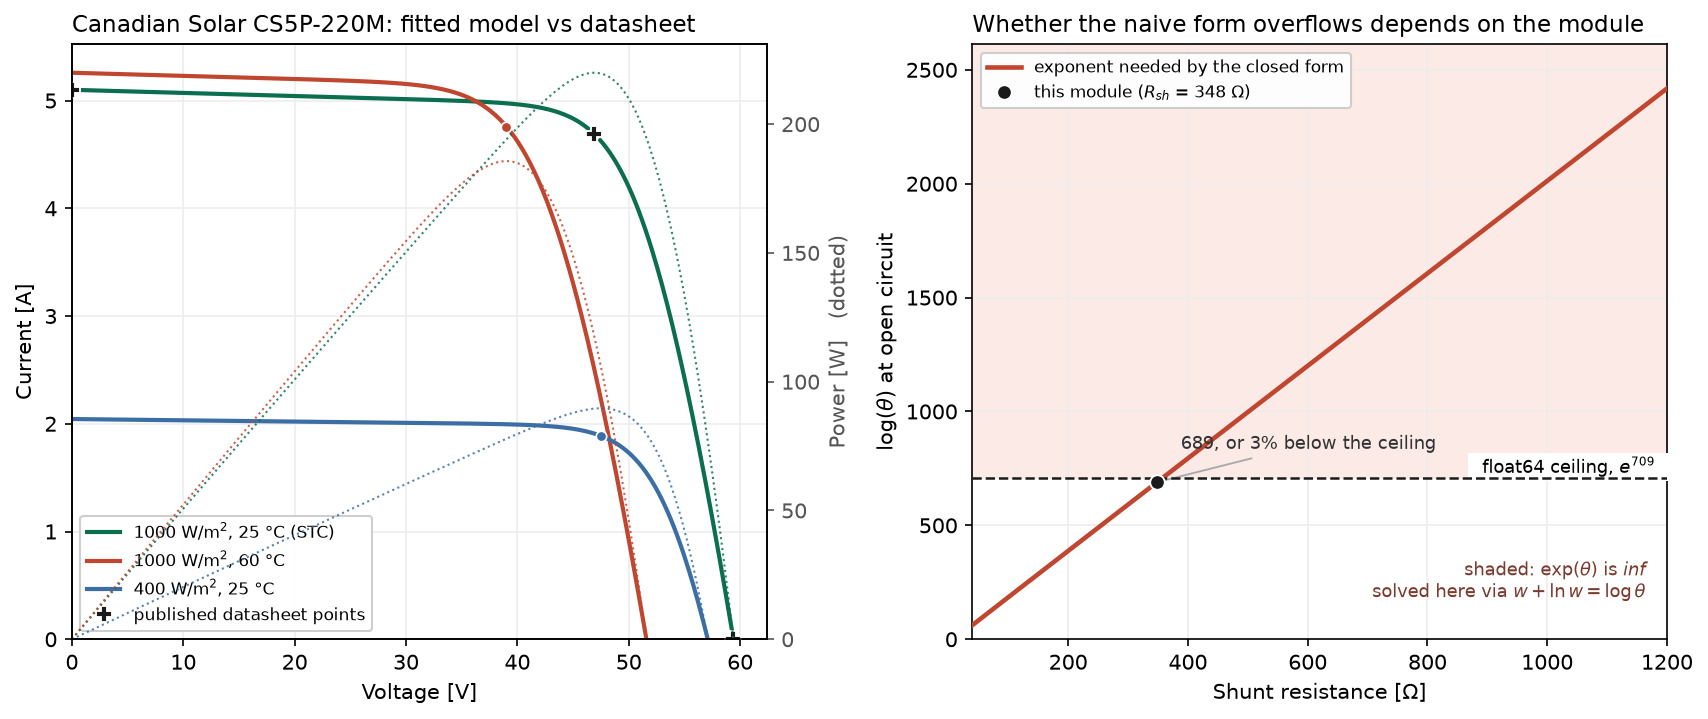
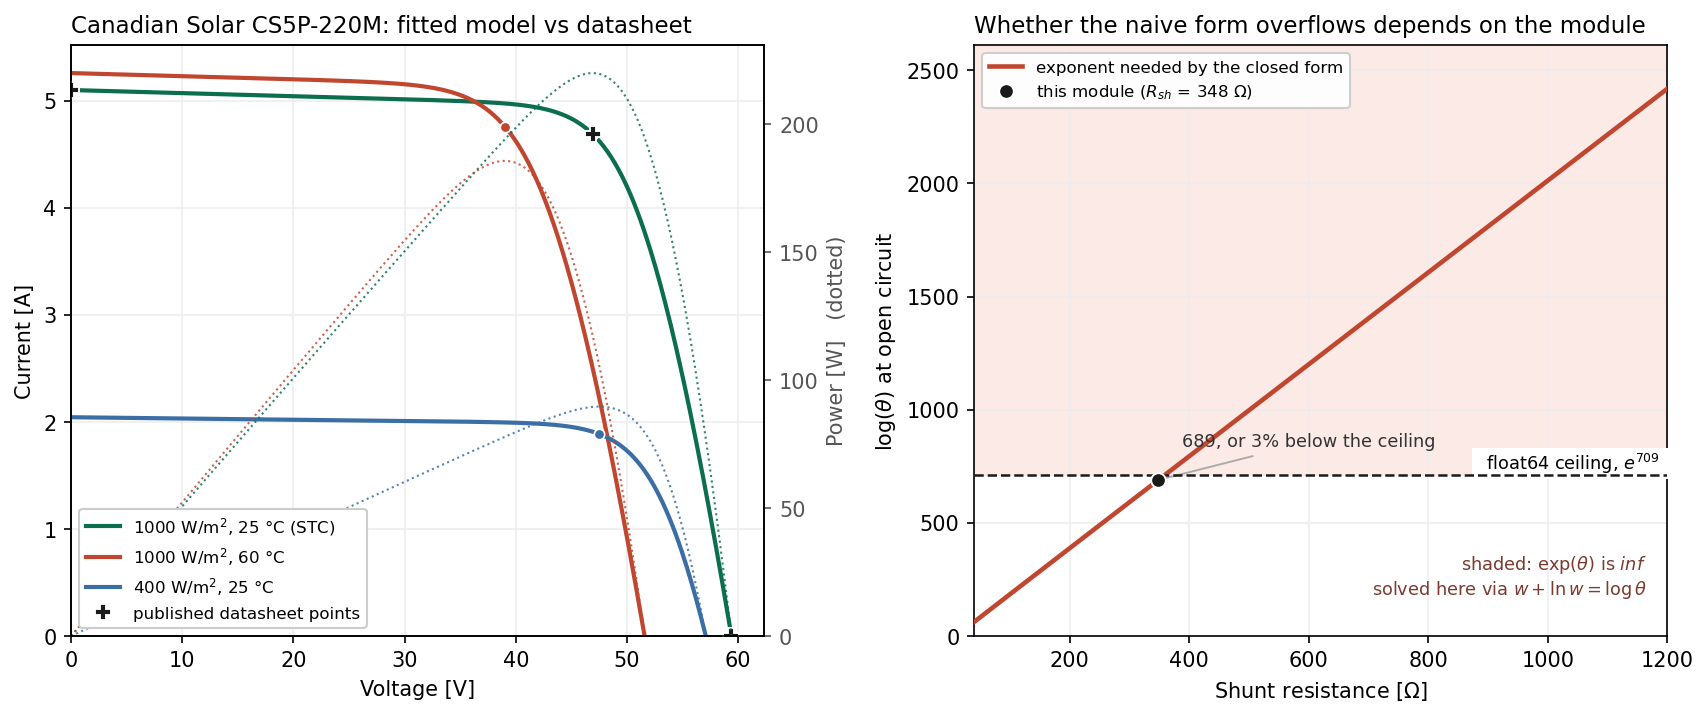
Fix the figure legend, and make the README runnable from nothing
The overview figure drew the dotted power curves across the left panel's
legend, crossing three of the four labels. The legend was attached to the
primary axes and the curves to its twin, and a twinned axes is drawn on top
of the one it was made from whatever the zorder or the frame opacity, so no
amount of framealpha was going to fix it. The legend now sits on the twin.

It had been there since the figure was written and never showed up, because
the figure was only ever inspected at full resolution. At the width it is
actually rendered at, it is the first thing you see.

The quickstart started at `pip install`, which assumes a clone, a directory
and an environment. It is now the whole sequence, and it was run as written
from an empty directory: clone, venv, install, example, 154 tests passing,
97% line and branch coverage.

Coverage is stated as a number with the command that prints it rather than
as a badge, because nothing publishes it; CI keeps the report as a build
artifact. The badges that remain are absolute URLs, so they resolve where
the README is read outside github.com, and the CI badge names main. The two
static badges that only restated the Development section are gone.

CONTRIBUTING still said the tests had caught three defects. The README has
documented four since the portability failure.

diff --git a/src/single_diode/plotting.py b/src/single_diode/plotting.py
@@ -135,7 +135,14 @@ def plot_overview(
     axp.set_ylim(bottom=0)
     ax.grid(color="#EDEDED", linewidth=0.8)
     ax.set_axisbelow(True)
-    ax.legend(loc="lower left", fontsize=8, framealpha=0.95)
+    # The legend is attached to the twin, not to ``ax``. A twinned axes is
+    # drawn on top of the one it was made from, so a legend on ``ax`` sits
+    # underneath the dotted power curves whatever its zorder or framealpha -
+    # which is exactly what it did: the dotted lines crossed the labels. It
+    # only showed up when the figure was inspected at the width it is actually
+    # rendered at, rather than at full resolution.
+    handles, labels = ax.get_legend_handles_labels()
+    axp.legend(handles, labels, loc="lower left", fontsize=8, framealpha=1.0)
     ax.set_title(f"{sheet.name}: fitted model vs datasheet", fontsize=11, loc="left")
 
     # ---------------- right: the overflow ceiling ----------------

diff --git a/README.md b/README.md
@@ -1,10 +1,8 @@
 # single-diode
 
-[![CI](../../actions/workflows/ci.yml/badge.svg)](../../actions/workflows/ci.yml)
-[![Python](https://img.shields.io/badge/python-3.10%20%7C%203.11%20%7C%203.12%20%7C%203.13-blue)](pyproject.toml)
+[![CI](https://github.com/valentinmann/single-diode/actions/workflows/ci.yml/badge.svg?branch=main)](https://github.com/valentinmann/single-diode/actions/workflows/ci.yml?query=branch%3Amain)
+[![Python 3.10 to 3.13](https://img.shields.io/badge/python-3.10%20%7C%203.11%20%7C%203.12%20%7C%203.13-blue)](pyproject.toml)
 [![License: MIT](https://img.shields.io/badge/license-MIT-green)](LICENSE)
-[![Checked with mypy](https://img.shields.io/badge/mypy-checked-2a6db2)](pyproject.toml)
-[![Ruff](https://img.shields.io/endpoint?url=https://raw.githubusercontent.com/astral-sh/ruff/main/assets/badge/v2.json)](https://github.com/astral-sh/ruff)
 
 A solar module datasheet gives you four numbers and two temperature
 coefficients. The single diode equivalent circuit needs five parameters. This
@@ -16,7 +14,12 @@ irradiance and cell temperature.
 ## Run it
 
 ```bash
-pip install -e ".[dev]" && python examples/datasheet_to_iv.py
+git clone https://github.com/valentinmann/single-diode.git
+cd single-diode
+python -m venv .venv
+source .venv/bin/activate        # Windows: .venv\Scripts\activate
+pip install -e ".[dev]"
+python examples/datasheet_to_iv.py
 ```
 
 A few seconds, no data to download. It fits a real published module, checks
@@ -78,9 +81,15 @@ converging for `I0 = 1e-10 A` and failing for `8e-10 A`.
 ## What the tests caught
 
 ```bash
-pytest       # 154 tests, including the docstring examples
-nox          # or: lint, strict type check and tests, exactly what CI runs
+pytest                                  # 154 tests, including the docstring examples
+pytest --cov --cov-report=term-missing  # 97% line and branch coverage
+nox                                     # lint, strict types and tests: exactly what CI runs
 ```
+
+Those two numbers are what those two commands print on a clean clone. There is
+no coverage badge because coverage is not published anywhere: CI keeps the
+report as a build artifact rather than sending it to a third party, and a
+badge nobody can reproduce is worth less than a command anybody can run.
 
 Four things, each of which produced plausible output and none of which a
 smoke test would have found. The first three were caught locally; the fourth
@@ -154,7 +163,7 @@ Everything CI runs is one command locally, through
 ```bash
 nox              # lint, types, tests
 nox -s tests     # tests on every installed interpreter, 3.10 to 3.13
-nox -s coverage  # 97% line and branch coverage at the time of writing
+nox -s coverage  # the coverage report quoted above, through nox
 nox -s build     # build the distributions and validate their metadata
 ```
 

diff --git a/CHANGELOG.md b/CHANGELOG.md
@@ -6,6 +6,23 @@ All notable changes to this project are documented here. The format follows
 
 ## [Unreleased]
 
+### Fixed
+
+- The overview figure drew the dotted power curves across the left panel's
+  legend. The legend was attached to the primary axes and the curves to its
+  twin, and a twinned axes is drawn on top of the one it was made from
+  whatever the zorder or the frame opacity, so the labels were crossed by
+  lines. It was only visible at the width the figure is actually rendered at.
+  The legend now sits on the twin.
+
+### Changed
+
+- The README quickstart is a complete sequence, from `git clone` to the first
+  figure, verified end to end in a fresh clone and a fresh virtual environment.
+- The badges are absolute URLs, so they still resolve where the README is read
+  outside github.com, and the CI badge reports `main` explicitly. The two
+  static badges that only restated what the Development section says are gone.
+
 ## [0.1.0] - 2026-09-24
 
 First release.

diff --git a/CONTRIBUTING.md b/CONTRIBUTING.md
@@ -37,8 +37,8 @@ mypy
 ## What a change needs
 
 - **A test that fails before it and passes after.** This package exists
-  because its tests caught three real bugs that produced plausible output;
-  that is the standard to hold.
+  because its tests caught four separate defects, every one of which produced
+  plausible output; that is the standard to hold.
 - **Physics justified in the docstring, not just in the diff.** If a constant
   or a formulation comes from a paper, name the paper.
 - **Claims that stay falsifiable.** Several docstrings state a measured
